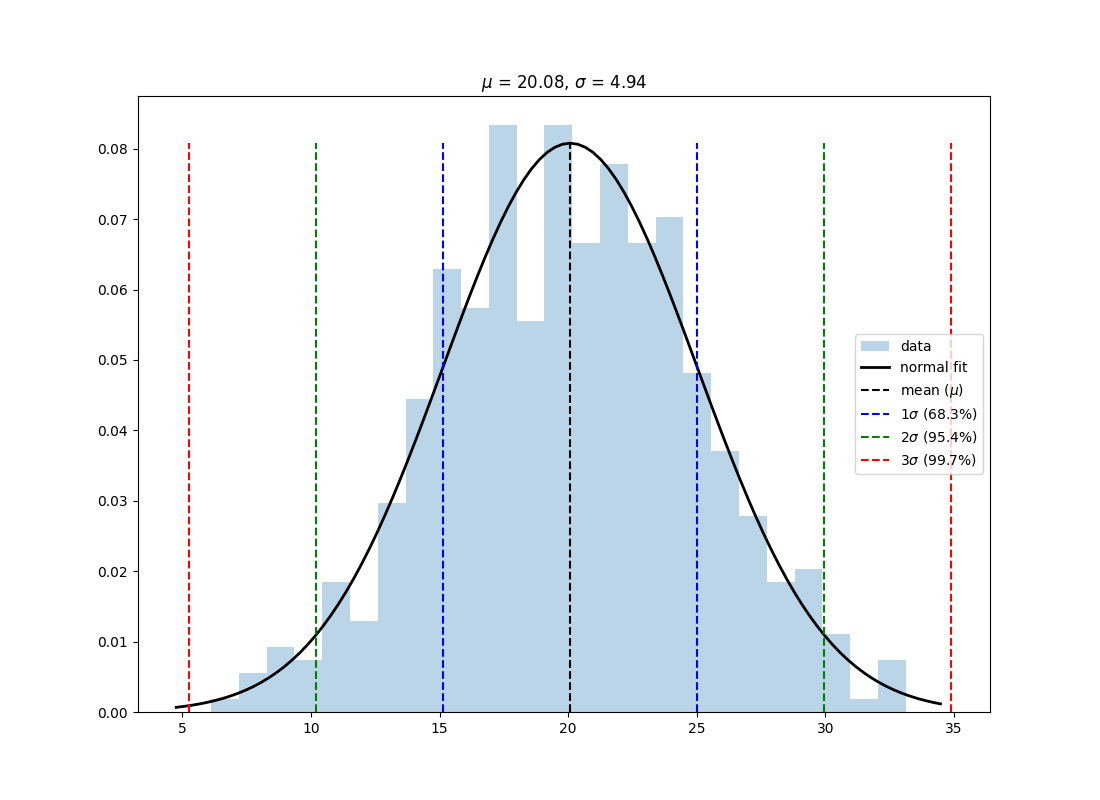
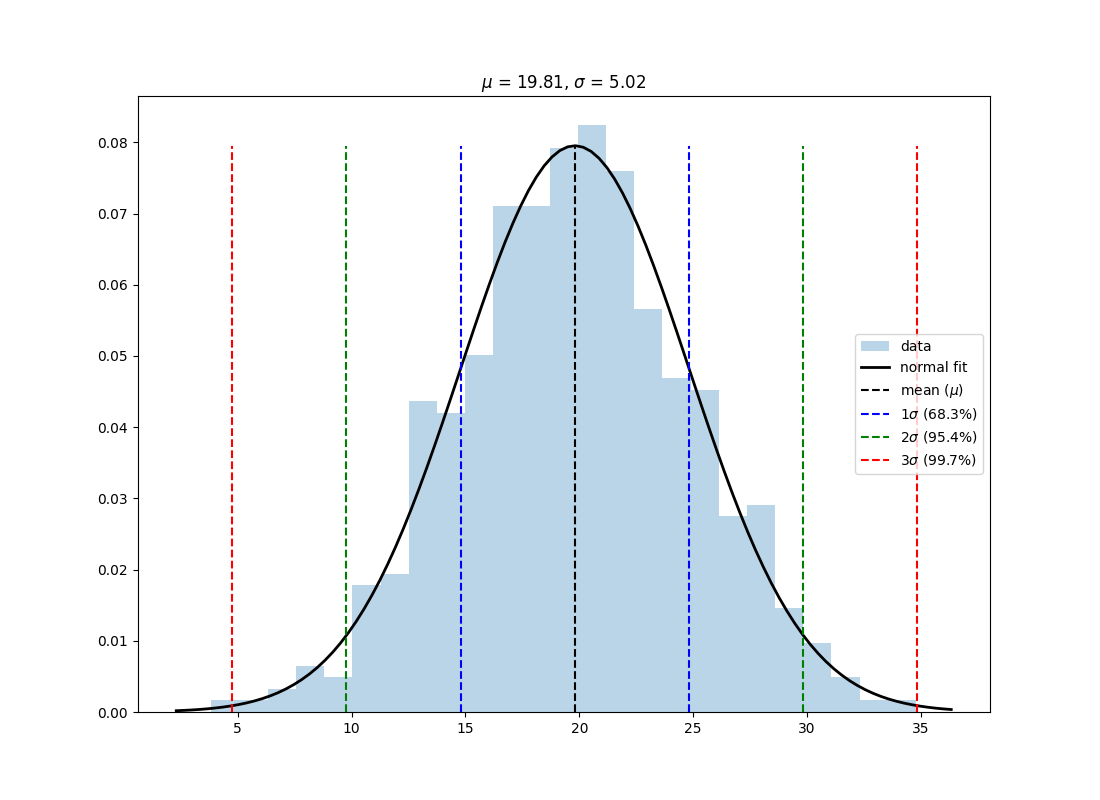
Numpy to generate data

diff --git a/statistics/normal_examples.py b/statistics/normal_examples.py
@@ -1,10 +1,11 @@
 from random import seed
 from normal import * 
-from scipy.stats import norm 
+import numpy as np 
 import os 
 
 
 os.chdir("pytools/statistics")
 
-data = norm.rvs(20, 5, size=500)  # Generate normally distributed random data
+np.random.seed(123)  # Ensures repeatable arrival at the same random data
+data = np.random.normal(20, 5, size=500)  # Generate normally distributed random data
 fit_normal(data, plot=True, save_as="normal_examples_plot_fit.png")  # Fit that data
